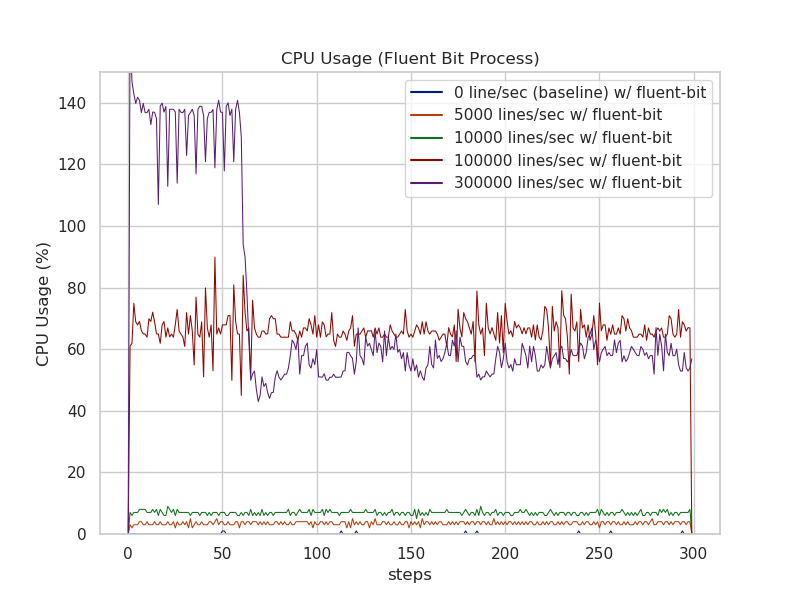
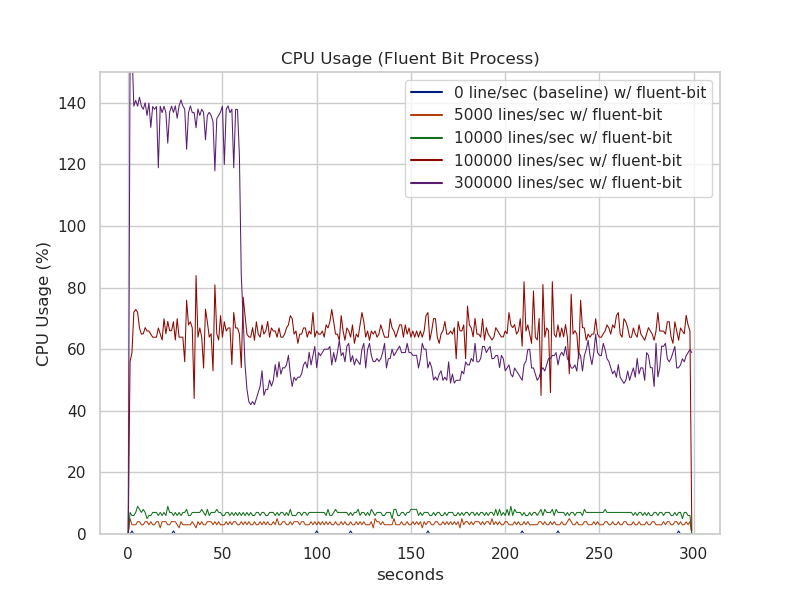
Add i3en.2xlarge results and prometheus flow rate graphs

Changed region(s): [[0.1562, 0.12, 0.875, 0.69], [0.1562, 0.84, 0.875, 0.9], [0.4688, 0.93, 0.5625, 0.99]]

diff --git a/in_tail_bench_fluent_bit/visualize/plot_pandas_lineplot_Usage.py b/in_tail_bench_fluent_bit/visualize/plot_pandas_lineplot_Usage.py
@@ -20,7 +20,7 @@ args = parser.parse_args()
 
 if args.resource == 'cpu':
     resource_key_format = "CPU Usage(%)[{0}#0]"
-    xlabel_message = 'steps'
+    xlabel_message = 'seconds'
     ylabel_message = 'CPU Usage (%)'
     ylimit = 150
     fig_title = 'CPU Usage (Fluent Bit Process)'
@@ -28,7 +28,7 @@ if args.resource == 'cpu':
     divide_base = -1
 elif args.resource == 'rss':
     resource_key_format = "RSS(MB)[{0}#0]"
-    xlabel_message = 'steps'
+    xlabel_message = 'seconds'
     ylabel_message = 'RSS Usage (MB) '
     ylimit = 500
     fig_title = 'RSS Usage (Fluent Bit Process)'
@@ -36,7 +36,7 @@ elif args.resource == 'rss':
     divide_base = -1
 elif args.resource == 'vms':
     resource_key_format = "VMS(MB)[{0}#0]"
-    xlabel_message = 'steps'
+    xlabel_message = 'seconds'
     ylabel_message = 'VMS Usage (MB)'
     ylimit = 1200
     fig_title = 'VMS Usage (Fluent Bit Process)'
@@ -44,7 +44,7 @@ elif args.resource == 'vms':
     divide_base = -1
 elif args.resource == 'read_bytes':
     resource_key_format = "read bytes(KiB/sec)"
-    xlabel_message = 'steps'
+    xlabel_message = 'seconds'
     ylabel_message = 'Disk Read Usage (bytes)'
     ylimit = 10000
     fig_title = 'Disk Read Usage'
@@ -52,7 +52,7 @@ elif args.resource == 'read_bytes':
     divide_base = -1
 elif args.resource == 'write_bytes':
     resource_key_format = "write bytes(KiB/sec)"
-    xlabel_message = 'steps'
+    xlabel_message = 'seconds'
     ylabel_message = 'Disk Write Usage (KiB)'
     ylimit = 30000
     fig_title = 'Disk Write Usage'
@@ -60,7 +60,7 @@ elif args.resource == 'write_bytes':
     divide_base = -1
 elif args.resource == 'recv_bytes':
     resource_key_format = "recv bytes(/sec)"
-    xlabel_message = 'steps'
+    xlabel_message = 'seconds'
     ylabel_message = 'Receive Usage (Bytes)'
     ylimit = 50000
     fig_title = 'Receive Bytes Usage'
@@ -68,7 +68,7 @@ elif args.resource == 'recv_bytes':
     divide_base = -1
 elif args.resource == 'send_bytes':
     resource_key_format = "send bytes(/sec)"
-    xlabel_message = 'steps'
+    xlabel_message = 'seconds'
     ylabel_message = 'Send Usage (Bytes)'
     ylimit = 1500000
     fig_title = 'Send Bytes Usage'

diff --git a/in_tail_bench_fluent_bit/in_tail_fbit_bench_result/i3en.2xlarge/RESULT.md b/in_tail_bench_fluent_bit/in_tail_fbit_bench_result/i3en.2xlarge/RESULT.md
@@ -100,6 +100,38 @@ CPU usages correspond to flow rate.
    * Fluent Bit's CPU usage is corresponding to flow rate, but slightly reduced CPU usage in high loaded case (tailing 300000 lines/sec). This might be indicated that 300000 lines / sec case is saturated for processing.
    * Fluent Bit's memory foot print is almost lower than 300MB event if highly loaded case. Median of memory usage is around 100 MB.
 
+### Flow rate with Prometheus graphs
+
+### 0 lines/sec (baseline)
+
+![](Fluent-Bit-0-lines-per-sec.png)
+
+There is no sent records.
+
+### 5000 lines/sec (baseline)
+
+![](Fluent-Bit-5000-lines-per-sec.png)
+
+Around 35M records are sent per 1 monutes.
+
+### 10000 lines/sec (baseline)
+
+![](Fluent-Bit-10000-lines-per-sec.png)
+
+Around 40M records are sent per 1 monutes.
+
+### 100000 lines/sec (baseline)
+
+![](Fluent-Bit-100000-lines-per-sec.png)
+
+Around 40M records are sent per 1 monutes.
+
+### 300000 lines/sec (baseline)
+
+![](Fluent-Bit-300000-lines-per-sec.png)
+
+Around 35M records are sent per 1 monutes.
+Maybe performace throttling has begun?
 
 ### Appendix
 
